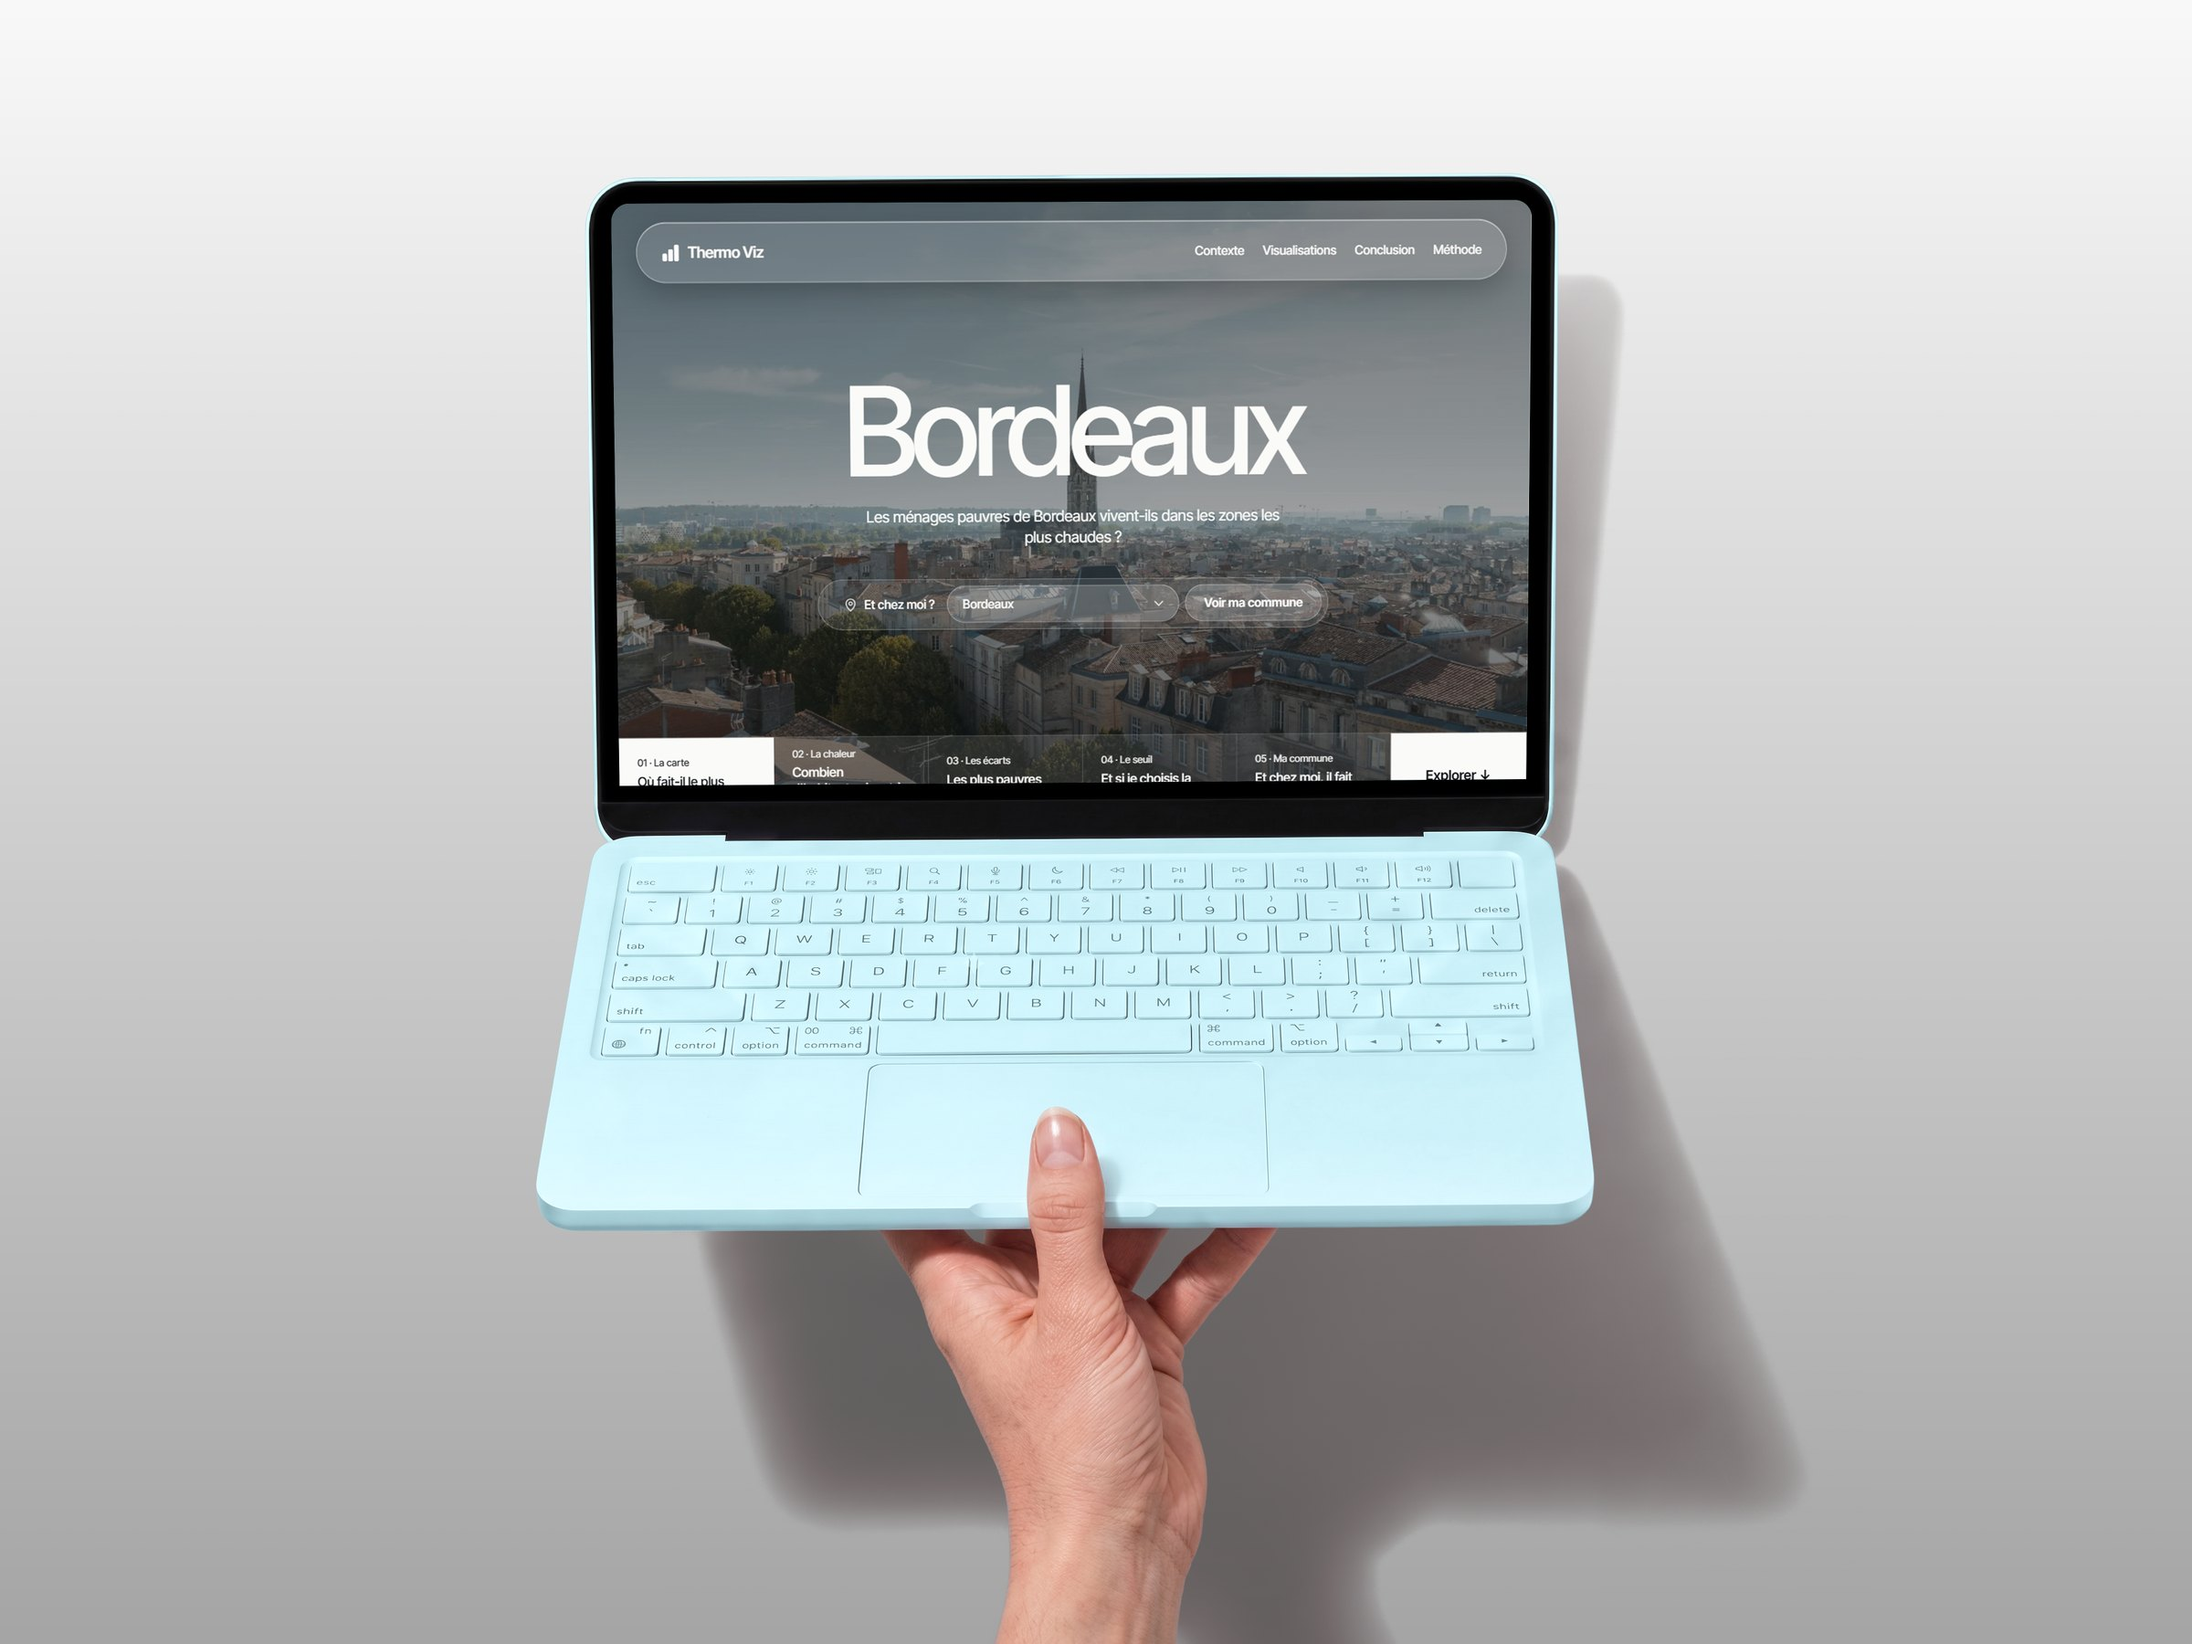
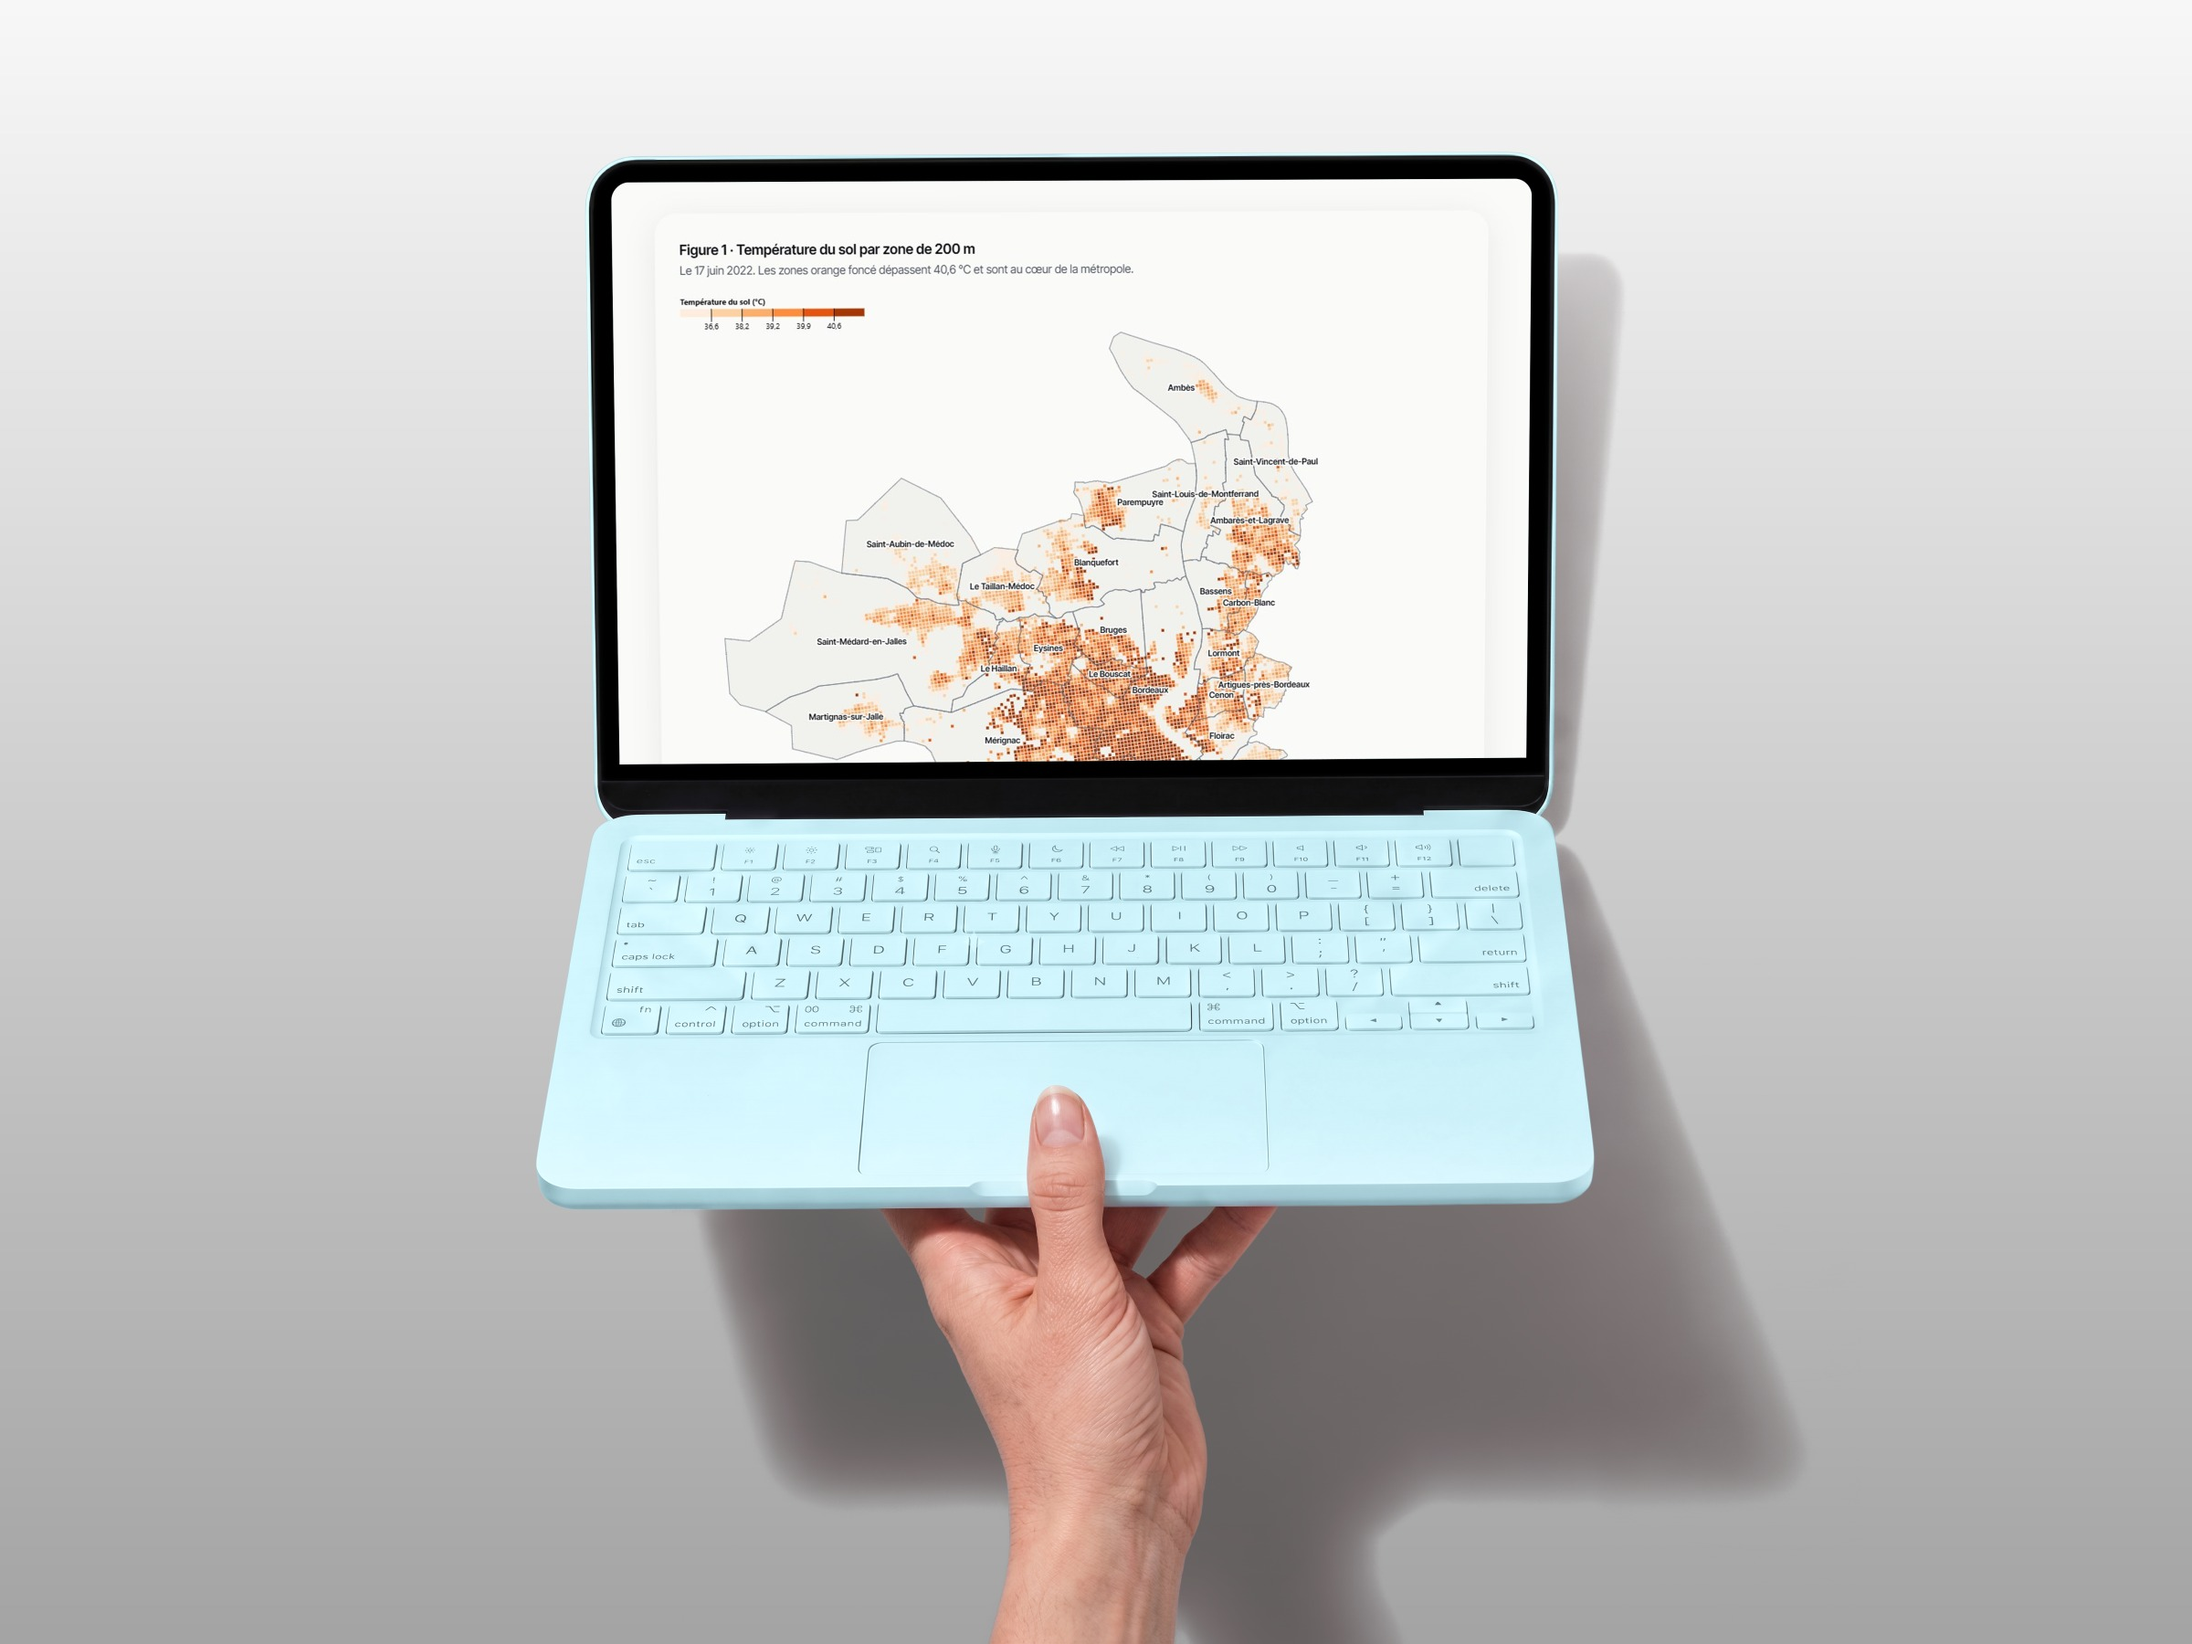
ThermoViz : mockups MacBook et iPhone Duo, retrait des captures mobiles du résultat

diff --git a/JOURNAL.md b/JOURNAL.md
@@ -133,3 +133,4 @@ Je n'ai pas choisi Instagram ni Behance, car je n'y publie pas assez de contenu 
 - Nettoyer et découper la feuille de styles (160 Ko).
 - Mettre le site en ligne sur enzoh.fr (hébergement, HTTPS) et refaire les mesures sur le site en ligne.
 - Mettre à jour LinkedIn, préparer les deux soutenances.
+- Mockups ThermoViz refaits comme TiK•TaK : MacBook en main (la carte) et iPhone Duo (« Et votre commune »), et suppression des 3 petites captures mobiles de l'onglet résultat.
